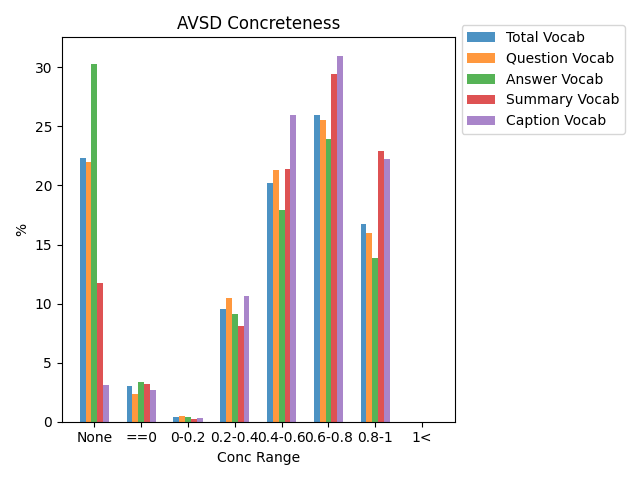
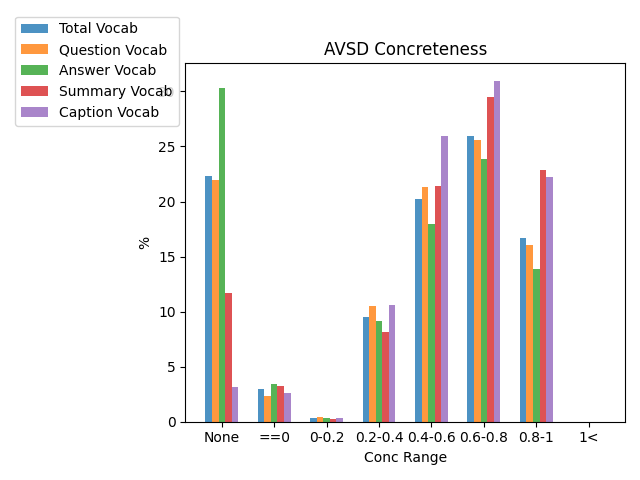
updated the AVSD plots

diff --git a/PLACEHOLDER.py b/PLACEHOLDER.py
@@ -133,7 +133,7 @@ def normdict2plot(norm_dicts, dict_labels, title="DEFAULT TITLE", xlab="DEFAULT 
     plt.ylabel(ylab)
     plt.title(title)
     plt.xticks(index + bar_width, ('None', '==0', '0-0.2', '0.2-0.4','0.4-0.6','0.6-0.8','0.8-1','1<'))
-    plt.legend(bbox_to_anchor=(1.0, 1.05))#loc=0)
+    plt.legend(bbox_to_anchor=(0, 1.15))#loc=0)
     
     plt.tight_layout()
     #plt.show()
